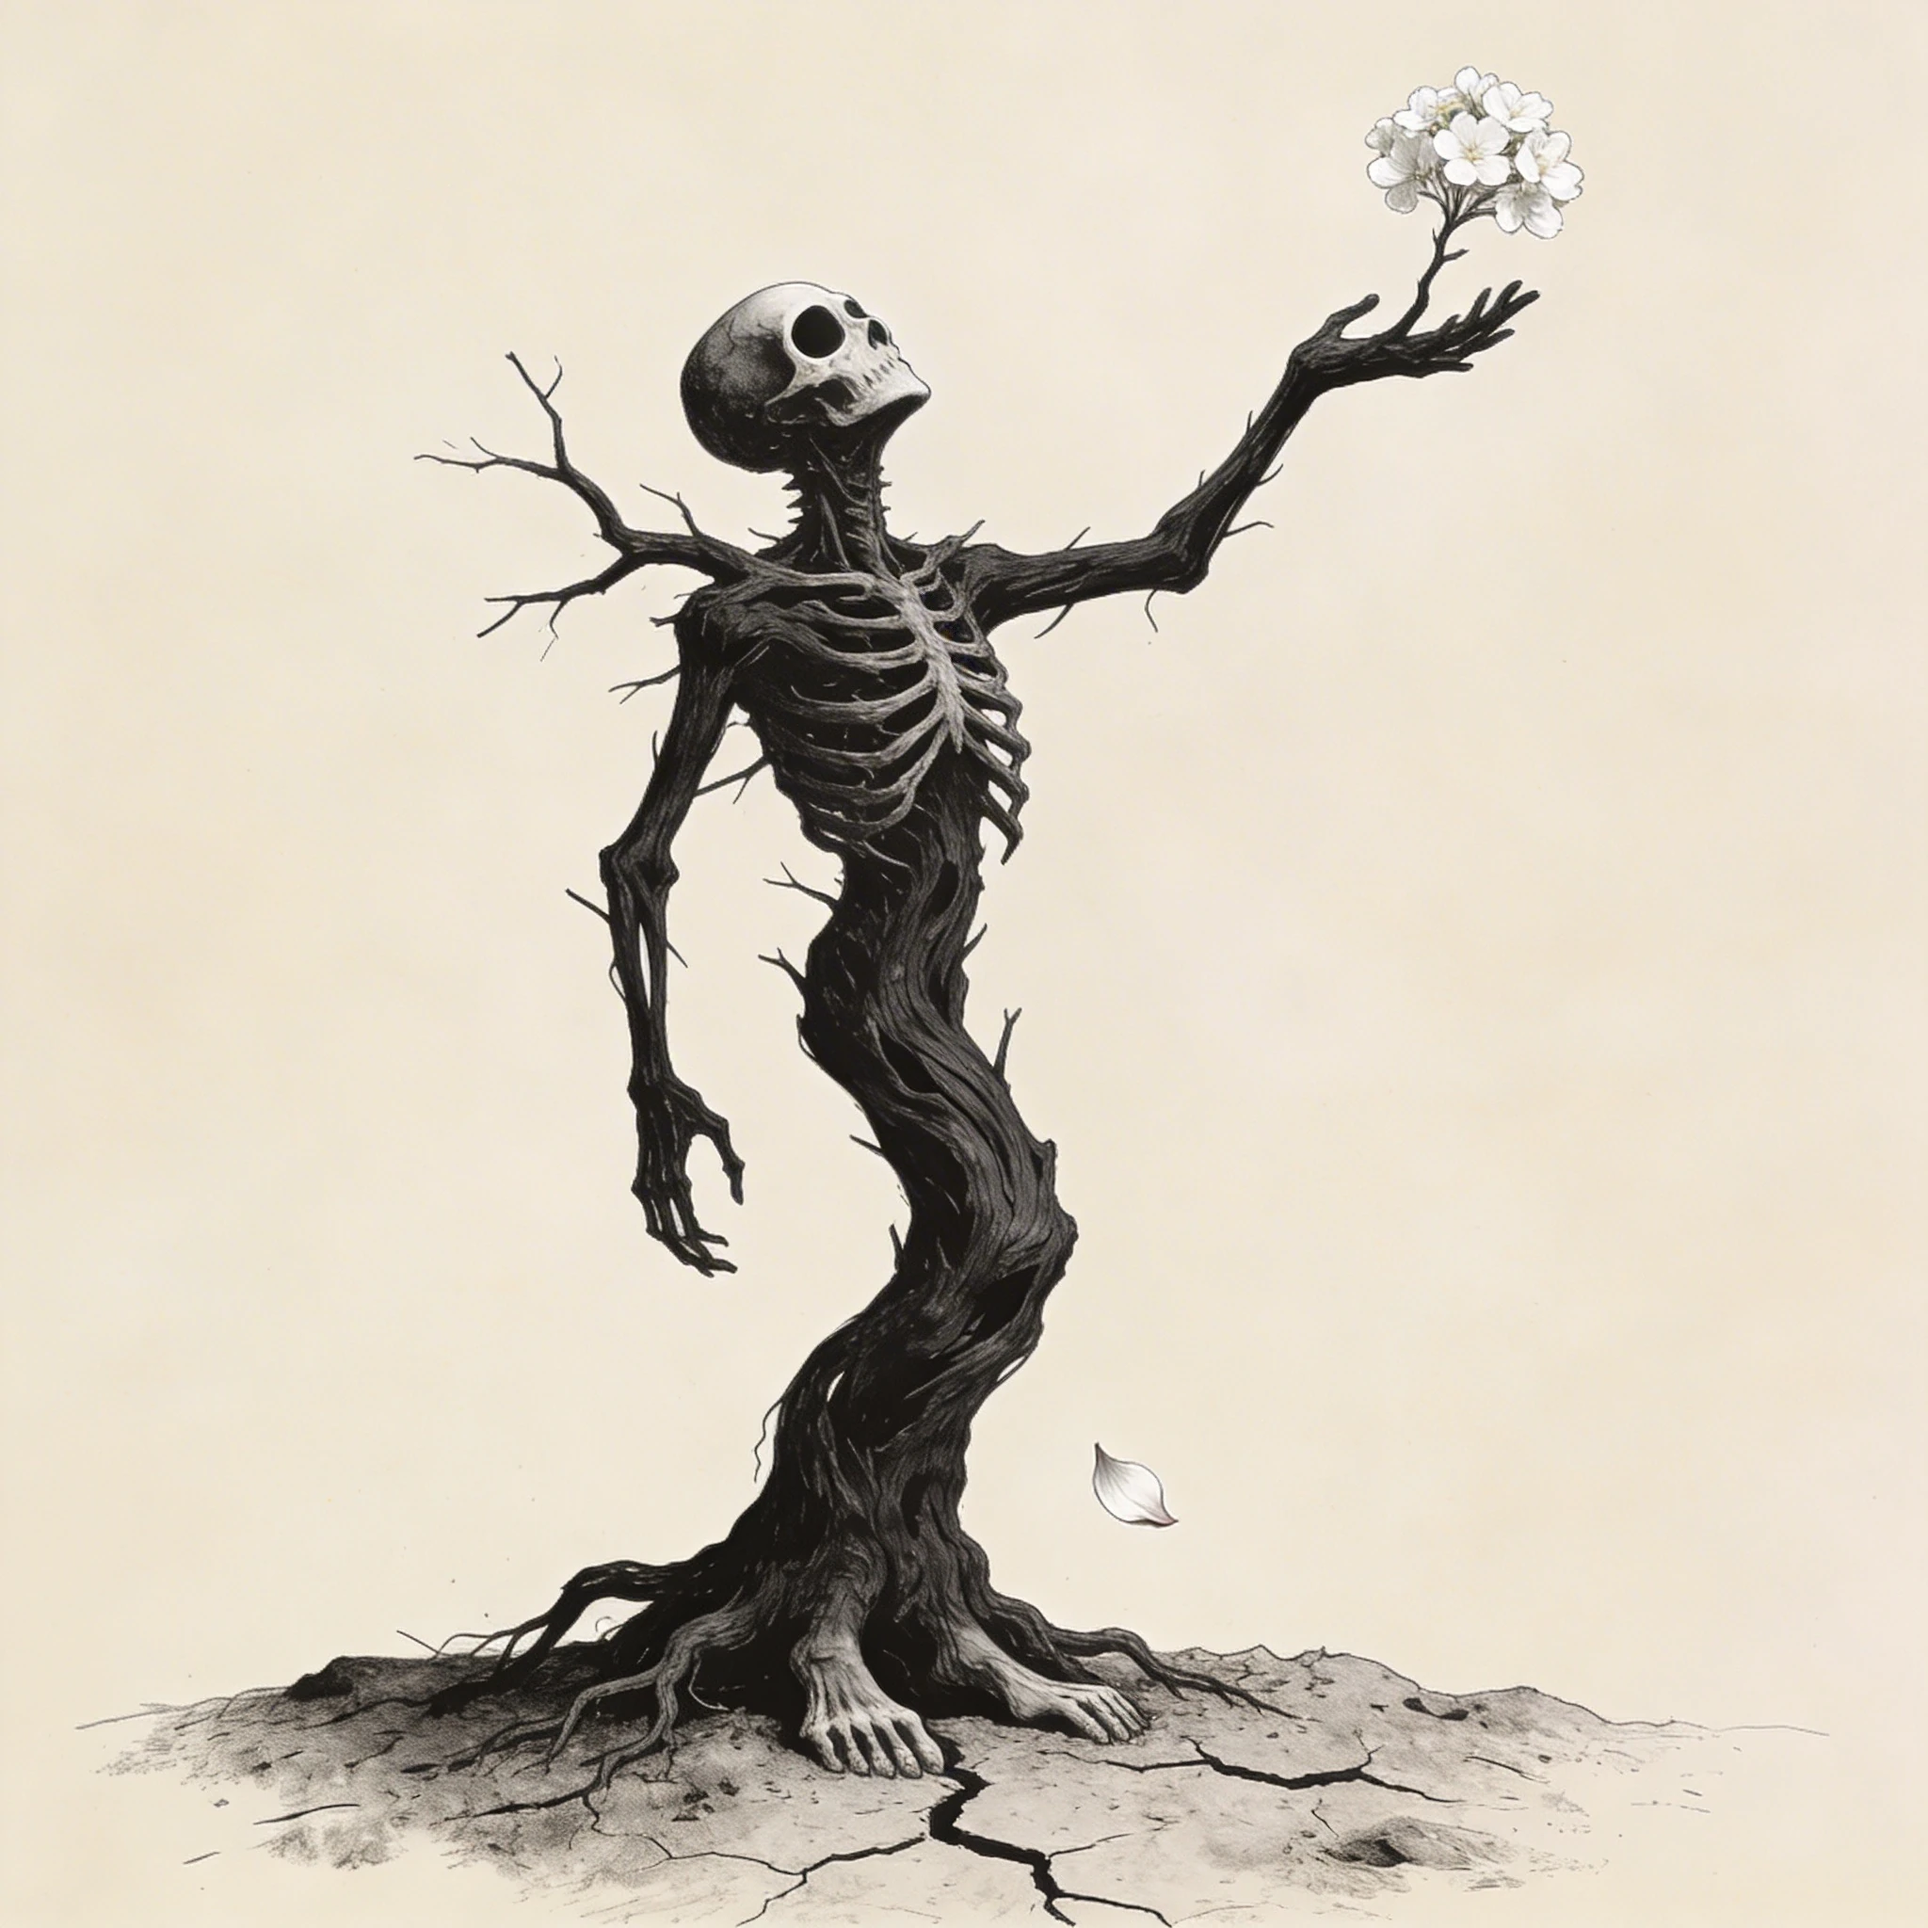
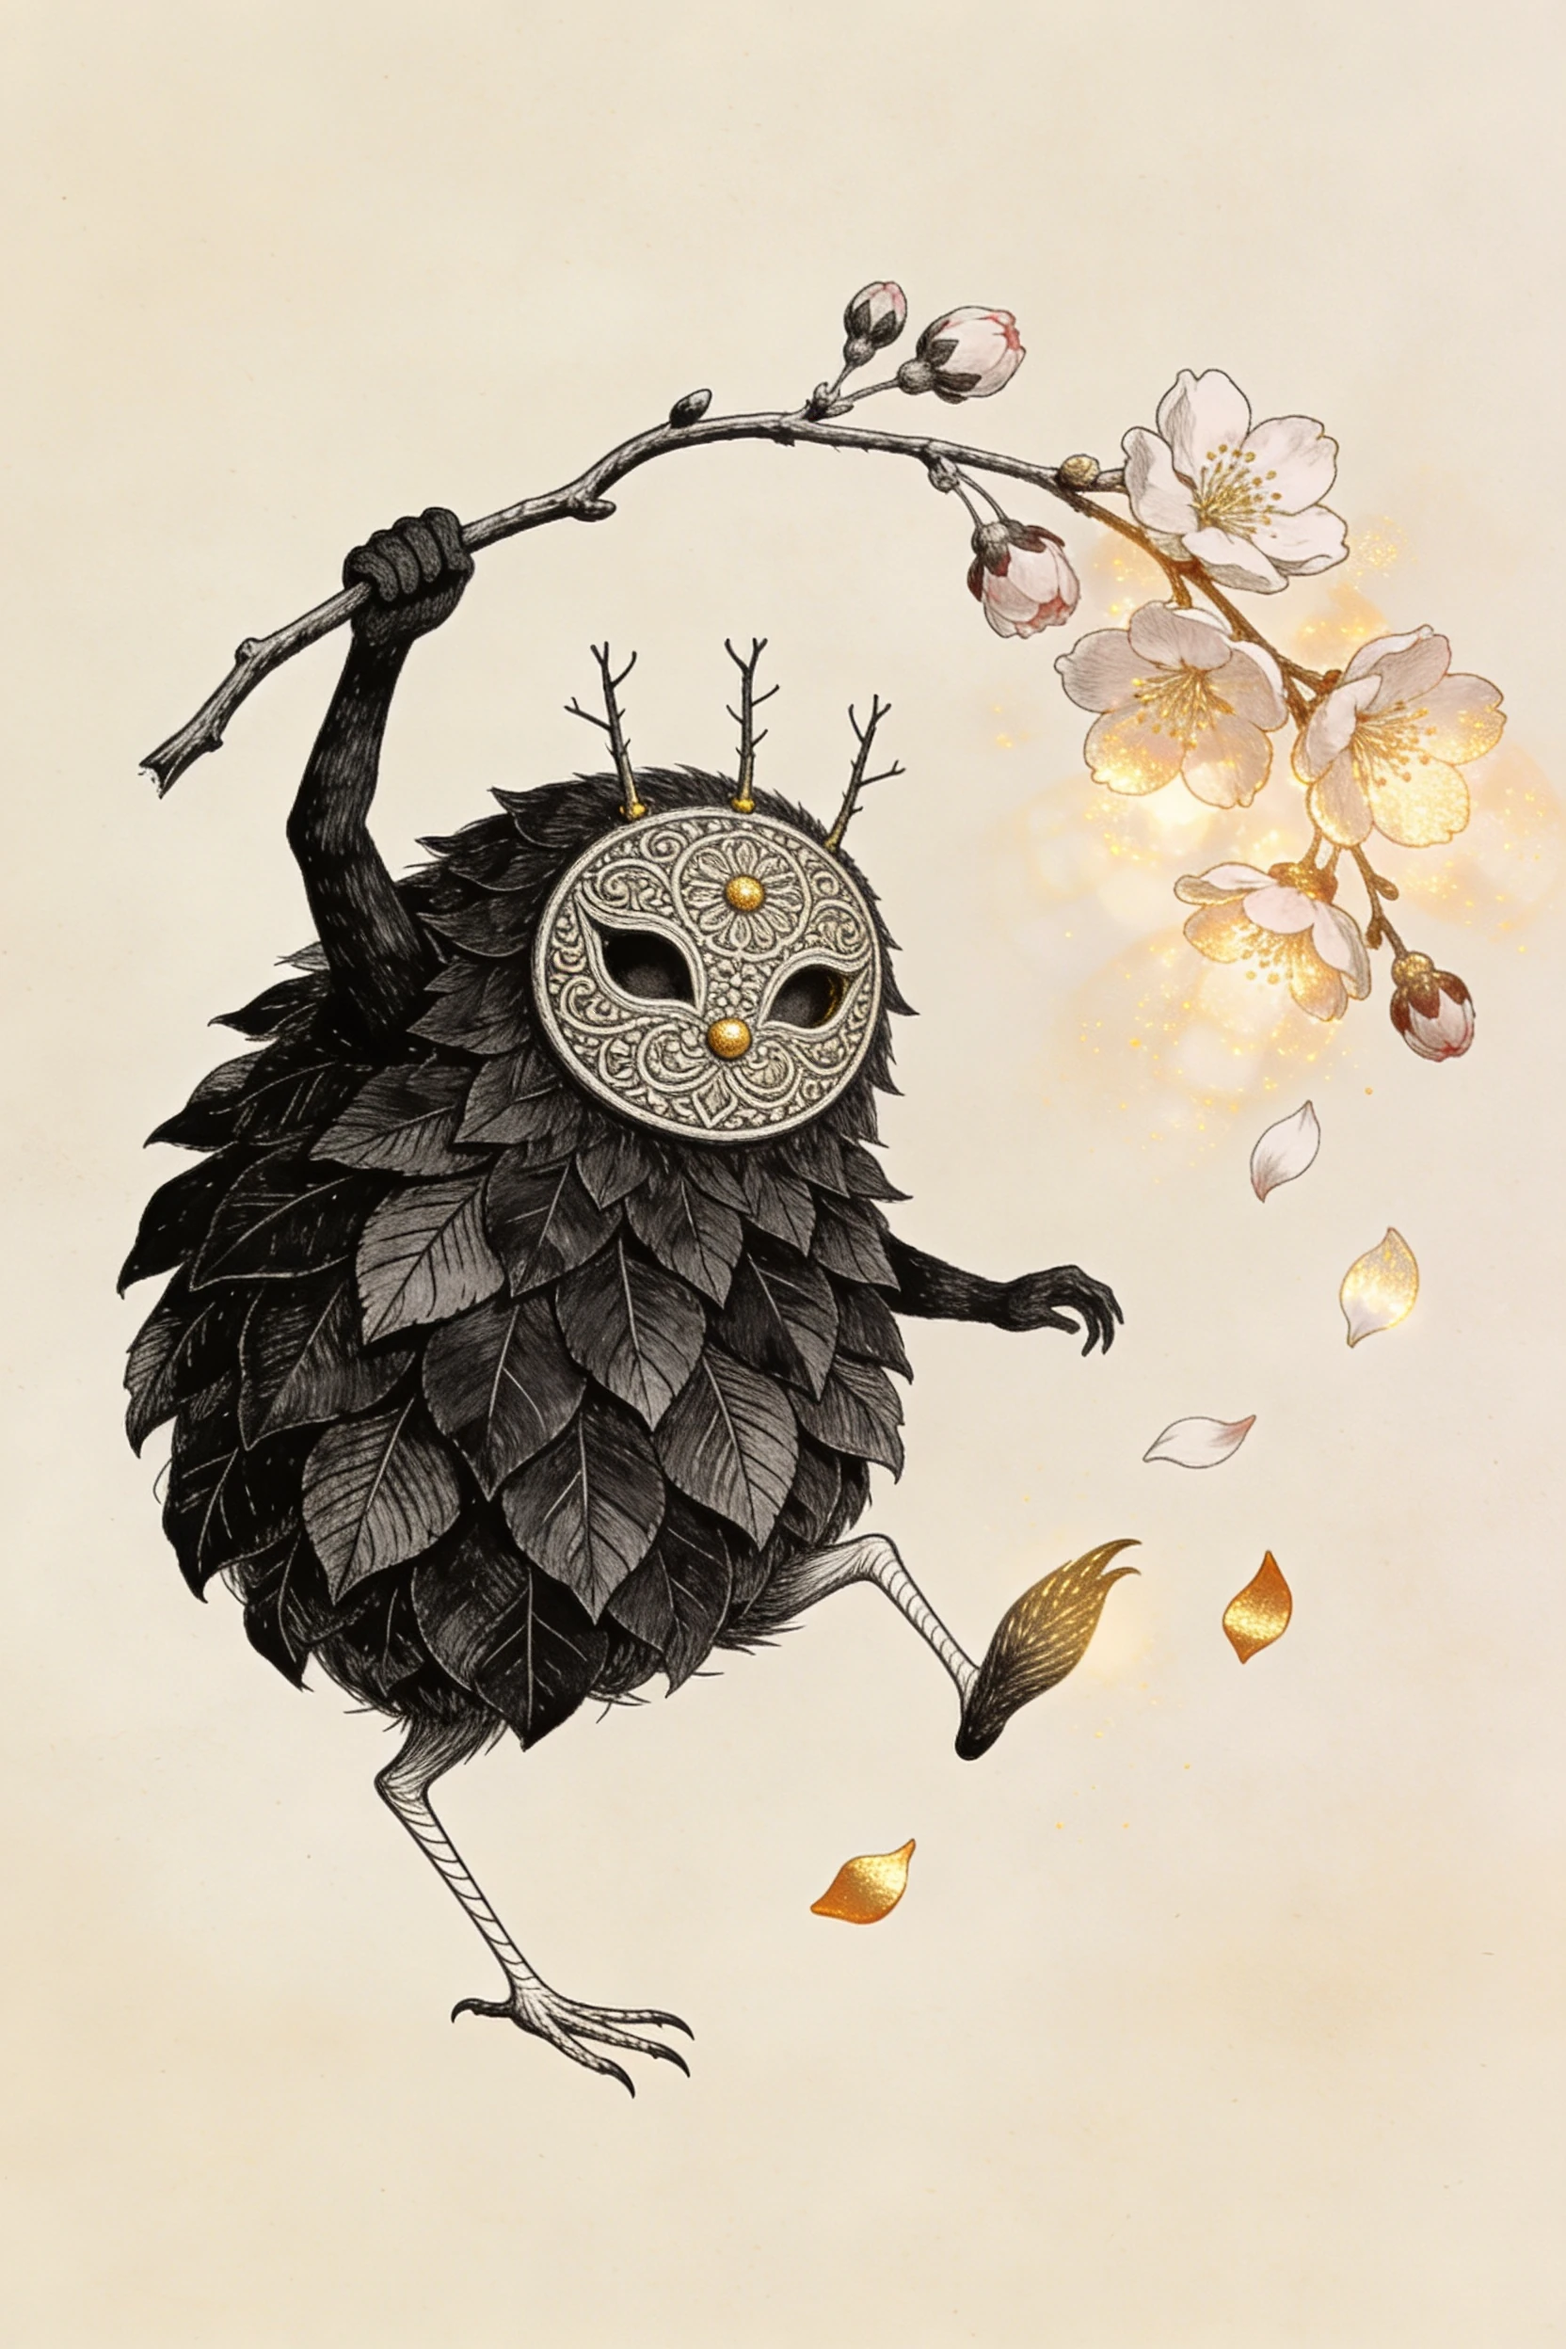
fix: update Цветущая Ветвь image and bust sw cache

diff --git a/sw.js b/sw.js
@@ -1,5 +1,5 @@
 const BUILD_ID = new URLSearchParams(self.location.search).get("v") || "dev";
-const CACHE_VERSION = "cards-20260527-true-moment";
+const CACHE_VERSION = "cards-20260527-flowering-branch";
 const CACHE_NAME = `wyrd-runtime-${BUILD_ID}-${CACHE_VERSION}`;
 const RUNTIME_CACHEABLE_DESTINATIONS = new Set(["image", "audio", "video", "font"]);
 
